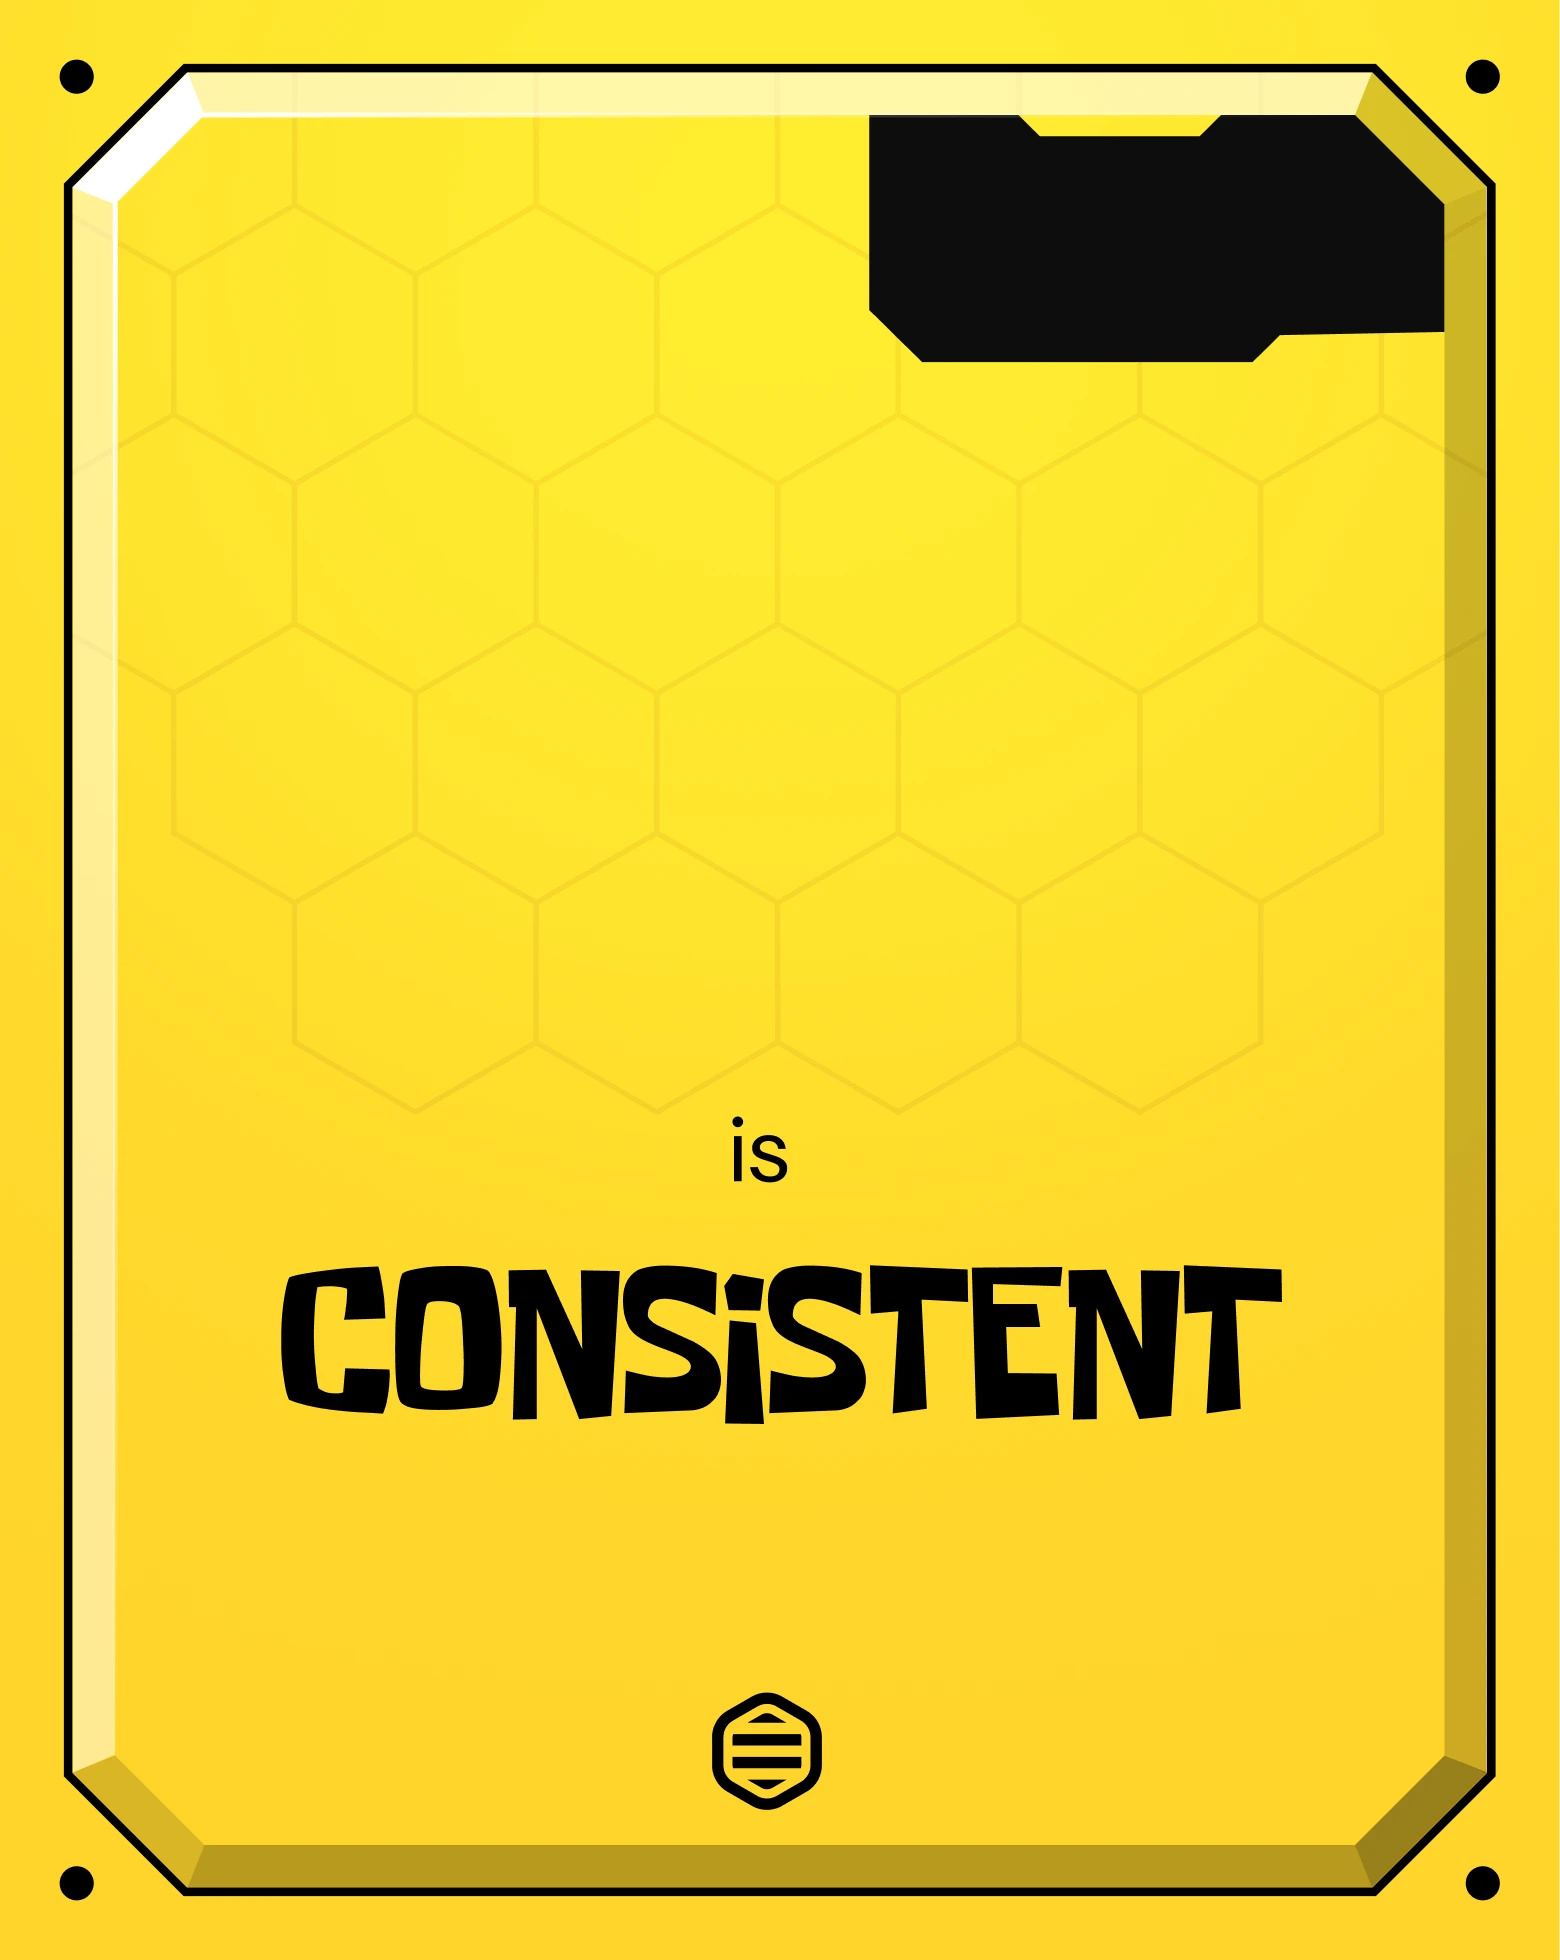
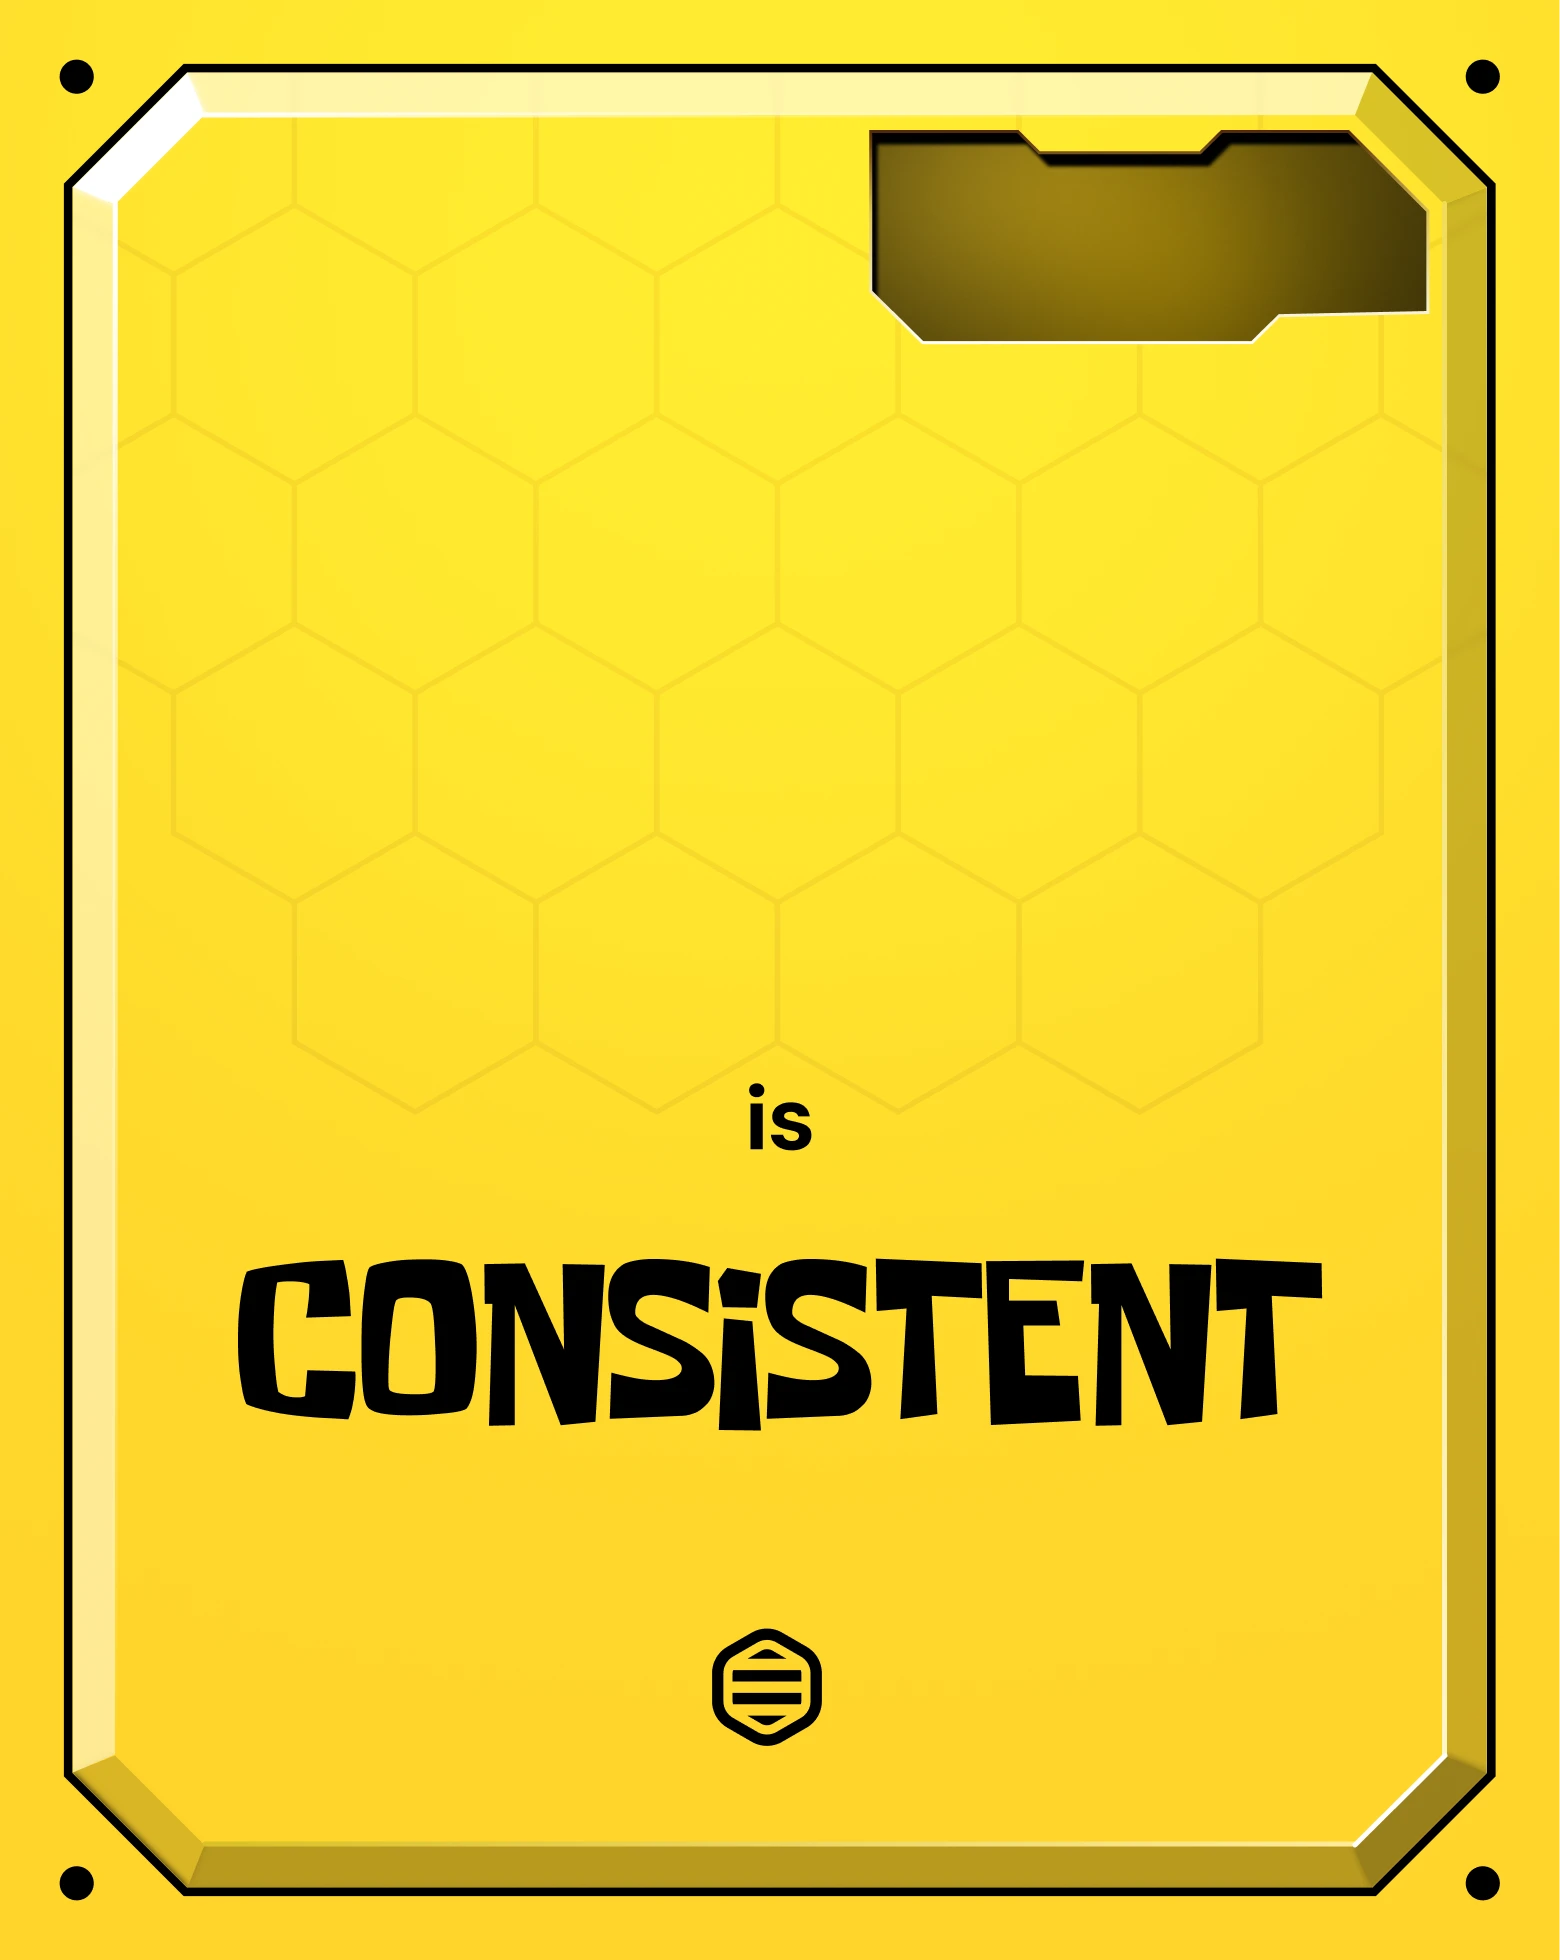
Update deletion flow and manifesto card

diff --git a/js/manifesto-signed.js b/js/manifesto-signed.js
@@ -7,6 +7,18 @@
   var UUID_RE = /^[0-9a-f]{8}-[0-9a-f]{4}-[1-5][0-9a-f]{3}-[89ab][0-9a-f]{3}-[0-9a-f]{12}$/i;
   var PNG_FRAME_URL = "/assets/brand-kit/other%20assets/Private/card-frame.png";
   var MANIFESTO_URL = "https://luzora.app/manifesto/";
+  var CARD_DESIGN_WIDTH = 366.12;
+  var CARD_DESIGN_HEIGHT = 460;
+  var CARD_NAME_MAX_WIDTH = 273;
+  var CARD_NAME_TOP = 154.43;
+  var CARD_NAME_HEIGHT = 63;
+  var CARD_NAME_BASE_SIZE = 42;
+  var CARD_NAME_MIN_SIZE = 22;
+  var CARD_NUMBER_RIGHT = 34;
+  var CARD_NUMBER_TOP = 38.72;
+  var CARD_NUMBER_WIDTH = 122;
+  var CARD_NUMBER_HEIGHT = 37;
+  var CARD_NUMBER_SIZE = 24.4082;
 
   var loading = document.querySelector("[data-signed-loading]");
   var errorState = document.querySelector("[data-signed-error]");
@@ -38,23 +50,38 @@
     errorState.hidden = false;
   }
 
+  function formatSignerNumber(value) {
+    var numeric = Number(String(value || "").replace(/,/g, ""));
+    if (!Number.isFinite(numeric) || numeric <= 0) return String(value || "1");
+    return new Intl.NumberFormat("en-US").format(numeric);
+  }
+
+  function measureTextWidth(text, size) {
+    var canvas = measureTextWidth.canvas || (measureTextWidth.canvas = document.createElement("canvas"));
+    var context = canvas.getContext("2d");
+    context.font = "700 " + size + "px Figtree, Arial, sans-serif";
+    return context.measureText(text).width;
+  }
+
   function fitName(name) {
-    var length = name.length;
-    if (length > 19) nameElement.style.fontSize = "14px";
-    else if (length > 15) nameElement.style.fontSize = "16px";
-    else if (length > 11) nameElement.style.fontSize = "18px";
+    var size = CARD_NAME_BASE_SIZE;
+    while (size > CARD_NAME_MIN_SIZE && measureTextWidth(name, size) > CARD_NAME_MAX_WIDTH) size -= 1;
+    nameElement.style.setProperty("--signed-name-size", size + "px");
   }
 
   function render(data) {
     signer = {
       username: String(data.username || "LuzoraBee"),
-      signerNumber: String(data.signer_number || "1"),
+      signerNumber: formatSignerNumber(data.signer_number || "1"),
       shareUrl: data.share_url || window.location.href.split("?")[0]
     };
 
     nameElement.textContent = signer.username;
     numberElement.textContent = signer.signerNumber;
     fitName(signer.username);
+    if (document.fonts && document.fonts.ready) {
+      document.fonts.ready.then(function () { fitName(signer.username); });
+    }
     document.title = signer.username + " signed the Luzora Manifesto";
     loading.hidden = true;
     errorState.hidden = true;
@@ -120,11 +147,22 @@
   function fitCanvasText(context, text, maxWidth, startSize, minimumSize) {
     var size = startSize;
     do {
-      context.font = "700 " + size + "px 'DM Sans', Arial, sans-serif";
+      context.font = "700 " + size + "px Figtree, Arial, sans-serif";
       if (context.measureText(text).width <= maxWidth) return size;
-      size -= 2;
+      size -= 1;
     } while (size >= minimumSize);
     return minimumSize;
+  }
+
+  function makeNameGradient(context, x, width) {
+    var gradient = context.createLinearGradient(x, 0, x + width, 0);
+    gradient.addColorStop(0, "#000000");
+    gradient.addColorStop(0.2263, "#000000");
+    gradient.addColorStop(0.3674, "#0a0905");
+    gradient.addColorStop(0.5951, "#5d4d12");
+    gradient.addColorStop(0.7322, "#000000");
+    gradient.addColorStop(1, "#000000");
+    return gradient;
   }
 
   async function makeCardBlob() {
@@ -136,32 +174,32 @@
     canvas.height = frame.naturalHeight || 1767;
     var context = canvas.getContext("2d");
     context.drawImage(frame, 0, 0, canvas.width, canvas.height);
+    var scaleX = canvas.width / CARD_DESIGN_WIDTH;
+    var scaleY = canvas.height / CARD_DESIGN_HEIGHT;
+    var textScale = Math.min(scaleX, scaleY);
 
     context.textAlign = "center";
     context.textBaseline = "middle";
     context.fillStyle = "#FFD52B";
-    var numberCenterX = canvas.width * 0.744;
-    var numberCenterY = canvas.height * 0.1215;
-    fitCanvasText(context, signer.signerNumber, canvas.width * 0.264, canvas.width * 0.0629, canvas.width * 0.0343);
+    var numberCenterX = canvas.width - ((CARD_NUMBER_RIGHT + CARD_NUMBER_WIDTH / 2) * scaleX);
+    var numberCenterY = (CARD_NUMBER_TOP + CARD_NUMBER_HEIGHT / 2) * scaleY;
+    var numberSize = fitCanvasText(context, signer.signerNumber, CARD_NUMBER_WIDTH * scaleX, CARD_NUMBER_SIZE * textScale, 16 * textScale);
+    context.font = "700 " + numberSize + "px Figtree, Arial, sans-serif";
     context.fillText(signer.signerNumber, numberCenterX, numberCenterY);
 
     var nameSize = fitCanvasText(
       context,
       signer.username,
-      canvas.width * 0.464,
-      canvas.width * 0.0529,
-      canvas.width * 0.0271
+      CARD_NAME_MAX_WIDTH * scaleX,
+      CARD_NAME_BASE_SIZE * textScale,
+      CARD_NAME_MIN_SIZE * textScale
     );
-    context.font = "700 " + nameSize + "px 'DM Sans', Arial, sans-serif";
-    var textWidth = context.measureText(signer.username).width;
-    var pillWidth = Math.max(canvas.width * 0.279, Math.min(canvas.width * 0.529, textWidth + canvas.width * 0.079));
-    var pillHeight = Math.max(canvas.height * 0.0668, nameSize + canvas.height * 0.0306);
-    var pillX = (canvas.width - pillWidth) / 2;
-    var pillY = canvas.height * 0.354;
-    context.fillStyle = "#0E0E0C";
-    context.fillRect(pillX, pillY, pillWidth, pillHeight);
-    context.fillStyle = "#FFD52B";
-    context.fillText(signer.username, canvas.width / 2, pillY + pillHeight / 2 + 2);
+    var nameBoxWidth = CARD_NAME_MAX_WIDTH * scaleX;
+    var nameBoxX = (canvas.width - nameBoxWidth) / 2;
+    var nameCenterY = (CARD_NAME_TOP + CARD_NAME_HEIGHT / 2) * scaleY;
+    context.font = "700 " + nameSize + "px Figtree, Arial, sans-serif";
+    context.fillStyle = makeNameGradient(context, nameBoxX, nameBoxWidth);
+    context.fillText(signer.username, canvas.width / 2, nameCenterY);
 
     return new Promise(function (resolve, reject) {
       canvas.toBlob(function (blob) {

diff --git a/css/manifesto-signed.css b/css/manifesto-signed.css
@@ -101,9 +101,10 @@
   --card-ry: 0deg;
   --card-lift: 0px;
   --card-scale: 1;
+  --signed-name-size: 42px;
   position: relative;
   width: 100%;
-  aspect-ratio: 1400 / 1767;
+  height: 460px;
   transform-style: preserve-3d;
   transform: translateY(var(--card-lift)) rotateX(var(--card-rx)) rotateY(var(--card-ry)) scale(var(--card-scale));
   transform-origin: center;
@@ -146,7 +147,7 @@
   display: flex;
   align-items: center;
   justify-content: center;
-  font-family: var(--font-body, "DM Sans", sans-serif);
+  font-family: var(--font-heading, "Figtree", sans-serif);
   font-weight: 700;
   text-align: center;
   white-space: nowrap;
@@ -154,29 +155,33 @@
 }
 
 .signed-card__number {
-  left: 55.8%;
-  top: 5.85%;
-  width: 37.2%;
-  height: 12.6%;
+  right: 34px;
+  top: 38.72px;
+  width: 122px;
+  height: 37px;
   color: #ffd52b;
-  font-size: 28px;
-  line-height: 1;
+  font-size: 24.4082px;
+  line-height: 1.5;
+  letter-spacing: -0.02em;
 }
 
 .signed-card__name {
   left: 50%;
-  top: 35.4%;
-  min-width: 37%;
-  max-width: 72%;
-  min-height: 44px;
+  top: 154.43px;
+  width: 273px;
+  height: 63px;
   box-sizing: border-box;
-  padding: 6px 14px;
   transform: translateX(-50%) translateZ(1px);
   border-radius: 0;
-  background: #0e0e0c;
-  color: #ffd52b;
-  font-size: 22px;
-  line-height: 28px;
+  background: linear-gradient(95.04deg, rgba(0, 0, 0, 0) 22.63%, rgba(0, 0, 0, 0.6) 36.74%, rgba(162, 134, 21, 0.6) 59.51%, rgba(153, 153, 153, 0) 73.22%), #000000;
+  -webkit-background-clip: text;
+  background-clip: text;
+  -webkit-text-fill-color: transparent;
+  color: #000000;
+  background-blend-mode: plus-lighter, normal;
+  font-size: var(--signed-name-size);
+  line-height: 1.5;
+  letter-spacing: -0.02em;
   overflow: hidden;
   text-overflow: ellipsis;
 }
@@ -349,8 +354,6 @@
   }
 
   .signed-action span { display: none; }
-  .signed-card__number { font-size: clamp(21px, 7vw, 28px); }
-  .signed-card__name { min-height: 42px; font-size: clamp(18px, 5.7vw, 22px); line-height: 26px; }
 }
 
 @media (max-width: 390px) {

diff --git a/data-deletion.html b/data-deletion.html
@@ -40,7 +40,7 @@
 
     <div class="del-head">
       <h1 class="del-title">Delete my Account &amp; Data</h1>
-      <p class="del-intro">You can request for your Account &amp; data to be deleted on Luzora. Ensure that your request follows our <a href="/privacy#data-deletion-policy">Data Deletion policy</a>. This delete does not include any data we are obliged to keep for administrative, legal or security reasons. Deleting your data can take up to 45 days. Fill the form to continue.</p>
+      <p class="del-intro">You can request deletion of your Luzora account and data. Please make sure your request follows our <a href="/privacy#data-deletion-policy">Data Deletion policy</a>. This deletion does not include information we are required to keep for administrative, legal, security, fraud prevention, backup, or dispute resolution reasons. We aim to complete verified deletion requests promptly and no later than 30 days after verification. If additional time is legally permitted because a request is complex, we will notify you within the initial 30-day period.</p>
     </div>
 
     <form class="del-form" id="del-form" novalidate>
@@ -74,9 +74,9 @@
 
         <!-- Reason -->
         <div class="del-field">
-          <label class="del-label" for="del-reason">State reason for Deletion</label>
+          <label class="del-label" for="del-reason">Reason for deletion <span class="del-label__optional">optional</span></label>
           <div class="del-input del-input--area">
-            <textarea id="del-reason" name="reason" placeholder="Enter your request in more than 10 letters" required></textarea>
+            <textarea id="del-reason" name="reason" placeholder="You can share context if you want to, but it is not required"></textarea>
           </div>
         </div>
 
@@ -86,7 +86,7 @@
           <span class="del-terms__box" aria-hidden="true">
             <svg viewBox="0 0 24 24" fill="none"><path d="M5 12.5l4 4 10-10.5" stroke="#000" stroke-width="3" stroke-linecap="round" stroke-linejoin="round"/></svg>
           </span>
-          <span class="del-terms__text">I understand that this action is irreversible and will permanently delete my account data</span>
+          <span class="del-terms__text">I understand that this action is irreversible and will permanently delete the selected account data, except information Luzora is legally allowed or required to retain.</span>
         </label>
       </div>
 

diff --git a/api/data-deletion-confirm.js b/api/data-deletion-confirm.js
@@ -102,7 +102,8 @@ async function notifyLuzora(request) {
   var scopeLabel = request.scope === "account" ? "Account and data" : "Task data";
   var safeEmail = escapeHtml(request.email);
   var safeScope = escapeHtml(scopeLabel);
-  var safeReason = escapeHtml(request.reason);
+  var reasonLabel = request.reason || "No reason provided";
+  var safeReason = escapeHtml(reasonLabel);
   var safeId = escapeHtml(request.id);
 
   return callResend("/emails", {
@@ -122,7 +123,7 @@ async function notifyLuzora(request) {
         "A user has verified a Luzora data deletion request.\n\n" +
         "Email: " + request.email + "\n" +
         "Scope: " + scopeLabel + "\n" +
-        "Reason: " + request.reason + "\n" +
+        "Reason: " + reasonLabel + "\n" +
         "Request ID: " + request.id
     }
   });
@@ -136,7 +137,7 @@ async function sendUserConfirmation(request) {
     heading: "Your request is confirmed",
     lines: [
       "Your Luzora deletion request has been verified.",
-      "We will review and process it according to our data deletion policy. Deletion can take up to 45 days where required."
+      "We aim to complete verified deletion requests promptly and no later than 30 days after verification. If additional time is legally permitted because your request is complex, we will notify you within the initial 30-day period."
     ],
     ctaLabel: "Go to Luzora",
     ctaUrl: "https://www.luzora.app",

diff --git a/css/deletion.css b/css/deletion.css
@@ -115,6 +115,11 @@
   color: var(--color-ink);
 }
 
+.del-label__optional {
+  font-weight: 400;
+  color: var(--color-body);
+}
+
 .del-input {
   box-sizing: border-box;
   display: flex;

diff --git a/api/data-deletion-request.js b/api/data-deletion-request.js
@@ -143,8 +143,8 @@ module.exports = async function handler(req, res) {
       return json(res, 400, { ok: false, message: "Please choose what you want to delete." });
     }
 
-    if (reason.length < 10 || reason.length > 2000) {
-      return json(res, 400, { ok: false, message: "Please share a short reason for the request." });
+    if (reason.length > 2000) {
+      return json(res, 400, { ok: false, message: "Please keep the optional reason under 2,000 characters." });
     }
 
     var token = crypto.randomBytes(32).toString("hex");

diff --git a/js/deletion.js b/js/deletion.js
@@ -60,7 +60,7 @@
   function valid() {
     var emailOk = /^[^\s@]+@[^\s@]+\.[^\s@]+$/.test((email.value || "").trim());
     var scopeOk = Boolean(scopeInput.value);
-    var reasonOk = (reason.value || "").trim().length > 10;
+    var reasonOk = (reason.value || "").trim().length <= 2000;
     return emailOk && scopeOk && reasonOk && agree.checked;
   }
 

diff --git a/manifesto-signed.html b/manifesto-signed.html
@@ -47,7 +47,7 @@
         <div class="signed-card-column">
           <div class="signed-card-scene">
             <div class="signed-card" data-signed-card tabindex="0" aria-label="Interactive Luzora manifesto signature card">
-              <img class="signed-card__frame" src="/assets/brand-kit/other%20assets/Private/card-frame.webp" width="1400" height="1767" alt="Luzora manifesto card" draggable="false" data-downloadable-image />
+              <img class="signed-card__frame" src="/assets/brand-kit/other%20assets/Private/card-frame.webp" width="366" height="460" alt="Luzora manifesto card" draggable="false" data-downloadable-image />
               <span class="signed-card__number" data-signer-number></span>
               <span class="signed-card__name" data-signer-name></span>
               <span class="signed-card__shine" aria-hidden="true"></span>

diff --git a/privacy.html b/privacy.html
@@ -294,6 +294,7 @@
 
       <h3 id="account-deletion">19. Account deletion</h3>
       <p>Deleting your account is intended to permanently remove your Luzora account, profile, tasks, projects, task versions, and task completion records from Luzora-managed active systems. Account deletion may also remove optional usage rows from Luzora-managed tables where implemented.</p>
+      <p>We aim to complete verified deletion requests promptly and no later than 30 days after verification. Where additional time is legally permitted because a request is complex or unusually burdensome, we will notify you within the initial 30-day period and explain the reason for the additional time.</p>
       <p>We may retain limited information where reasonably necessary for security, fraud prevention, legal compliance, dispute resolution, system integrity, backup retention, or anonymous product feedback. For example, anonymous deletion reasons may remain after your account is deleted.</p>
       <p>You can request deletion through the extension where available or through the data deletion page linked from this website. If you cannot access your account, contact us at <a href="mailto:[email redacted]">[email redacted]</a>.</p>
 

diff --git a/terms.html b/terms.html
@@ -277,6 +277,7 @@
         <li>
           <h4>12.4 Account deletion</h4>
           <p>You may request account deletion through available product flows or our <a href="/data-deletion">data deletion page</a>. Deletion may remove your Luzora account, profile, task data, projects, task versions, and completion records from Luzora-managed active systems, subject to legal, security, backup, fraud-prevention, and operational retention described in the Privacy Policy.</p>
+          <p>We aim to complete verified deletion requests promptly and no later than 30 days after verification. Where additional time is legally permitted because a request is complex or unusually burdensome, we will notify you within the initial 30-day period and explain the reason for the additional time.</p>
         </li>
       </ol>
 